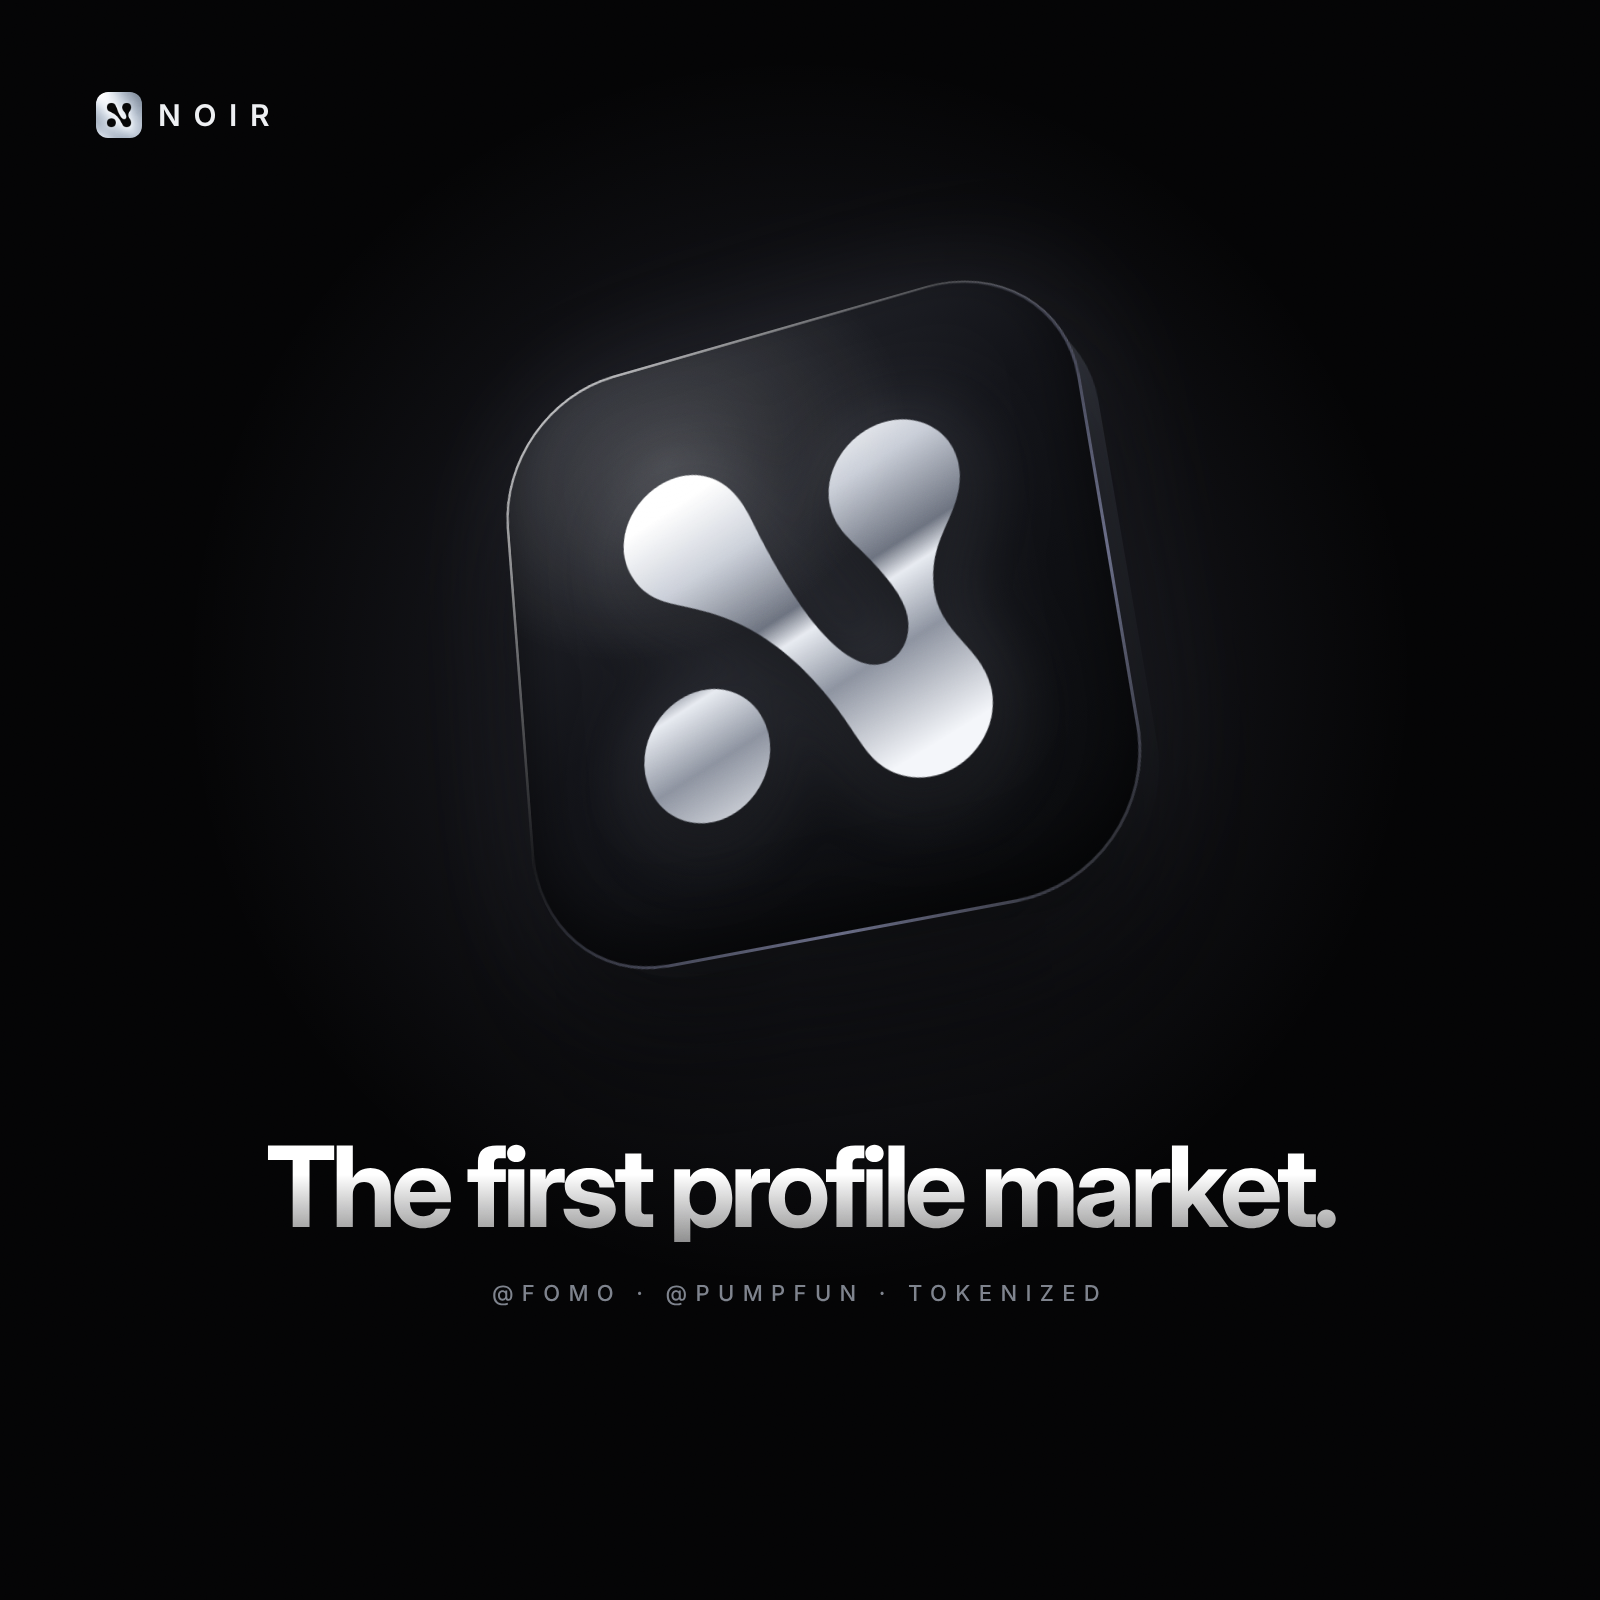
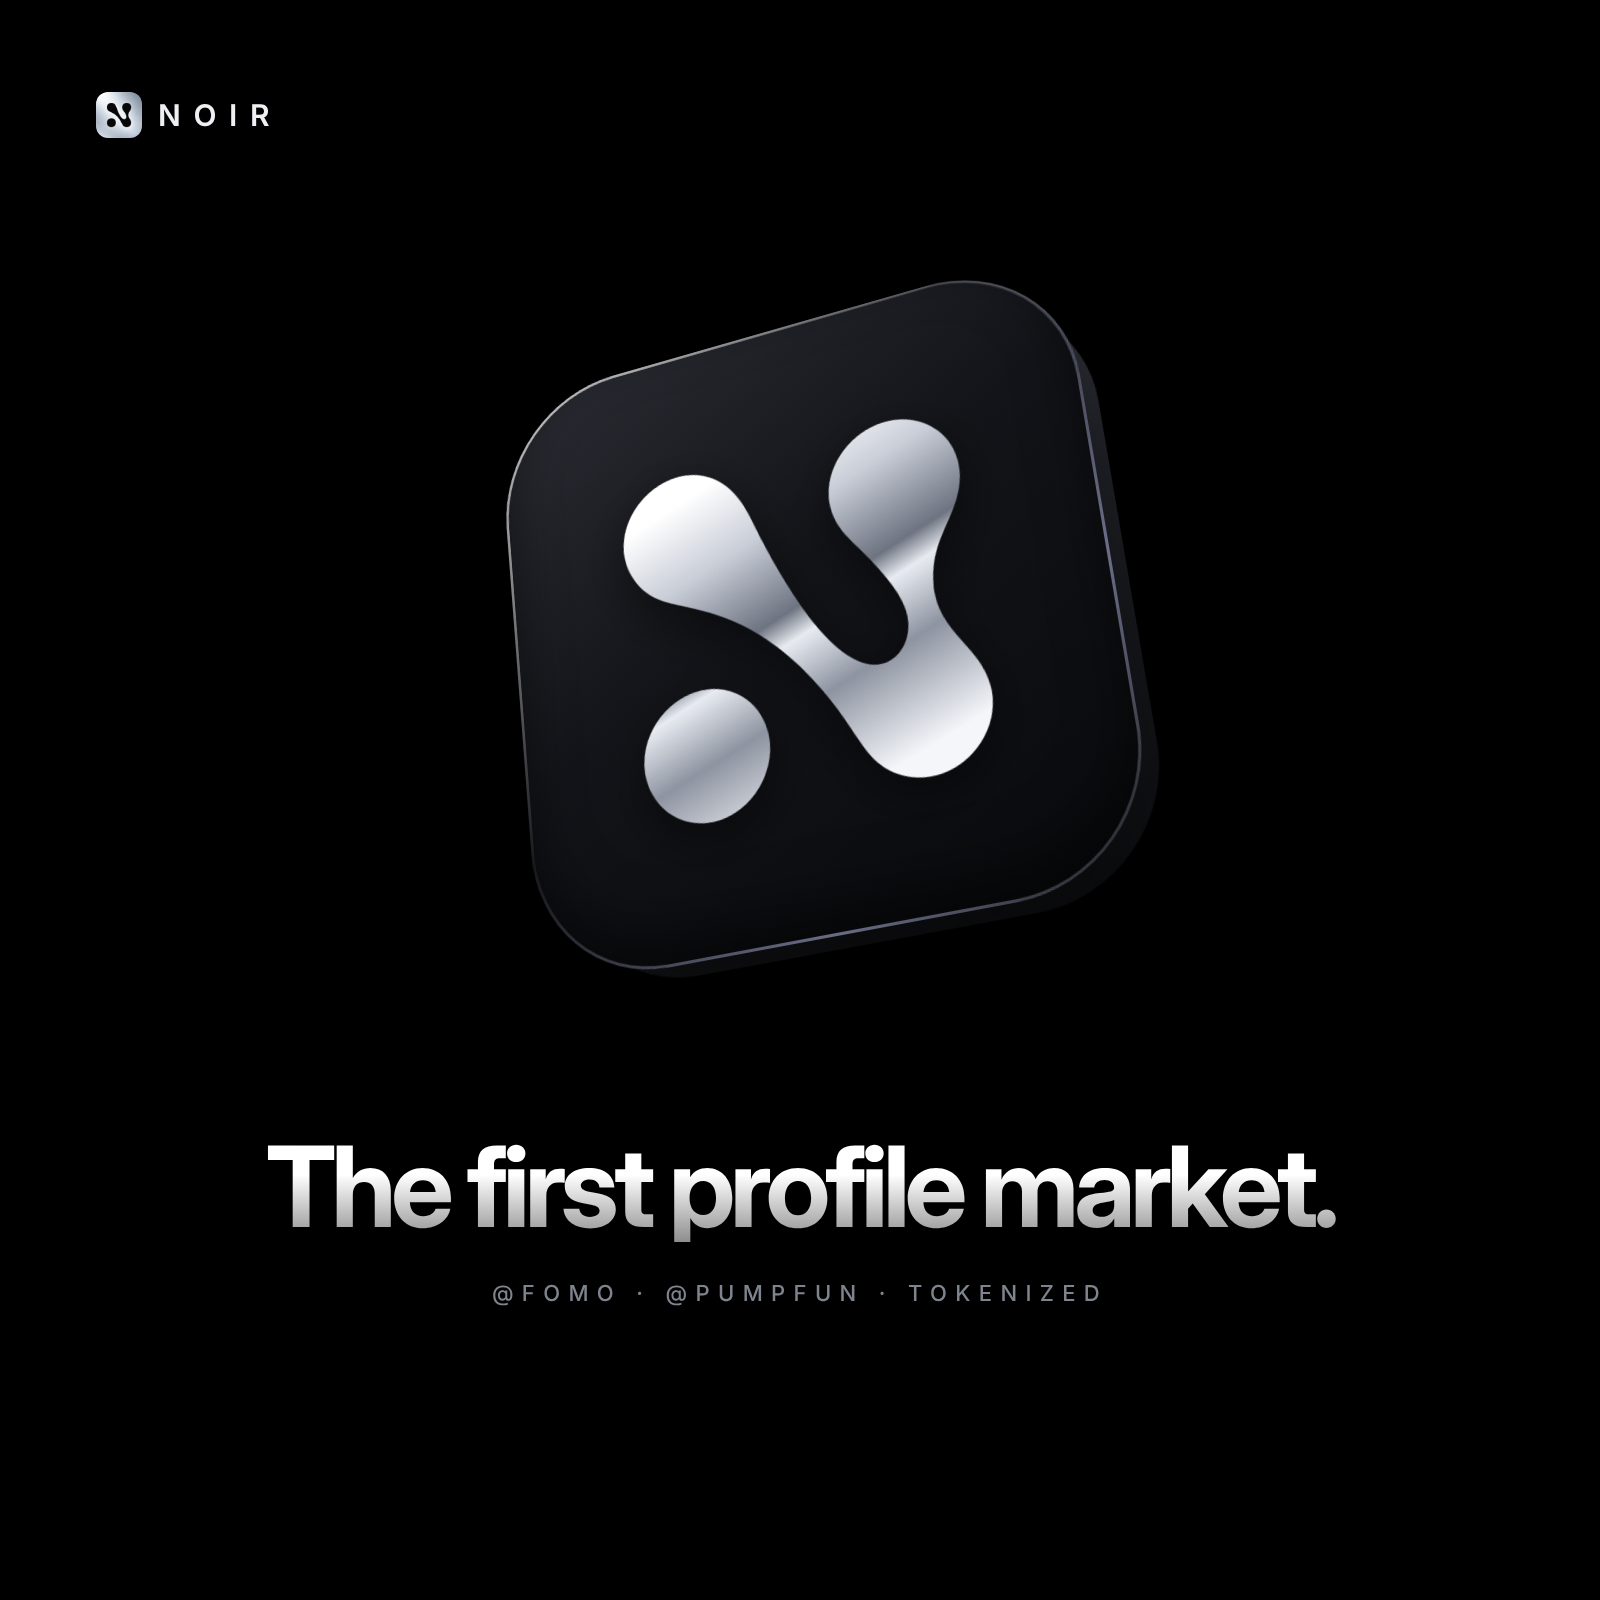
Remove glow from 'The first' post images
Claude-Session: https://claude.ai/code/session_01XuzzpsTNGuLB13z5AixuLb

diff --git a/design/noir/posts/first-source/first.html b/design/noir/posts/first-source/first.html
@@ -1,16 +1,15 @@
 <!doctype html><html><head><meta charset=utf-8><style>
 *{margin:0;box-sizing:border-box}body{background:#000;font-family:Inter,sans-serif}
-.c{position:relative;overflow:hidden;background:#040405}
+.c{position:relative;overflow:hidden;background:#000}
 .sq{width:1600px;height:1600px}.ls{width:1600px;height:900px}
 .wm{position:absolute;display:flex;align-items:center;gap:16px;font:600 30px Inter;letter-spacing:.42em;color:#eef0f3}
 .g{position:absolute;inset:0;opacity:.06;mix-blend-mode:overlay;pointer-events:none}
 .stage{position:absolute;perspective:2200px}
 .tile{position:absolute;inset:0;border-radius:22%;transform-style:preserve-3d;
  background:linear-gradient(150deg,#2a2c33 0%,#121318 45%,#08090b 100%);
- box-shadow:inset 0 2px 0 rgba(255,255,255,.18),inset 0 -30px 60px rgba(0,0,0,.6),0 80px 160px rgba(0,0,0,.7),0 0 140px rgba(190,200,235,.14)}
+ box-shadow:inset 0 2px 0 rgba(255,255,255,.18),inset 0 -30px 60px rgba(0,0,0,.6),0 80px 160px rgba(0,0,0,.7)}
 .tile:before{content:"";position:absolute;inset:0;border-radius:inherit;padding:3px;background:linear-gradient(135deg,rgba(255,255,255,.75),rgba(255,255,255,.05) 40%,rgba(199,205,255,.5) 75%,rgba(255,255,255,.1));-webkit-mask:linear-gradient(#000 0 0) content-box,linear-gradient(#000 0 0);-webkit-mask-composite:xor;mask-composite:exclude}
-.tile:after{content:"";position:absolute;inset:0;border-radius:inherit;background:radial-gradient(70% 55% at 30% 18%,rgba(255,255,255,.16),transparent 60%)}
-.tile img{position:absolute;left:21%;top:21%;width:58%;height:58%;filter:drop-shadow(0 18px 30px rgba(0,0,0,.55)) drop-shadow(0 0 40px rgba(205,212,235,.25))}
+.tile img{position:absolute;left:21%;top:21%;width:58%;height:58%;filter:drop-shadow(0 18px 30px rgba(0,0,0,.55))}
 .side{position:absolute;inset:0;border-radius:22%;background:linear-gradient(160deg,#3b3e48,#0c0d10);transform:translateZ(-70px)}
 .t{background:linear-gradient(180deg,#fff 40%,rgba(255,255,255,.55));-webkit-background-clip:text;color:transparent}
 .k{font:500 22px Inter;letter-spacing:.38em;color:#7d828c}
@@ -18,7 +17,6 @@
 
 <!-- A · square, logo only (like the reference) -->
 <div class="c sq" id=A>
- <div style="position:absolute;left:50%;top:50%;width:1500px;height:1500px;transform:translate(-50%,-48%);border-radius:50%;background:radial-gradient(circle,rgba(199,205,255,.16),transparent 58%)"></div>
  <div class=wm style="left:96px;top:92px"><img src="noir-logo-128.png" style="width:46px;height:46px;border-radius:12px">NOIR</div>
  <div class=stage style="left:410px;top:430px;width:780px;height:780px">
   <div style="position:absolute;inset:0;transform:rotateX(18deg) rotateY(-24deg) rotateZ(-8deg);transform-style:preserve-3d">
@@ -30,7 +28,6 @@
 
 <!-- B · square, logo + line -->
 <div class="c sq" id=B>
- <div style="position:absolute;left:50%;top:42%;width:1500px;height:1500px;transform:translate(-50%,-50%);border-radius:50%;background:radial-gradient(circle,rgba(199,205,255,.15),transparent 58%)"></div>
  <div class=wm style="left:96px;top:92px"><img src="noir-logo-128.png" style="width:46px;height:46px;border-radius:12px">NOIR</div>
  <div class=stage style="left:480px;top:300px;width:640px;height:640px">
   <div style="position:absolute;inset:0;transform:rotateX(16deg) rotateY(-22deg) rotateZ(-7deg);transform-style:preserve-3d">
@@ -46,7 +43,6 @@
 
 <!-- C · landscape 16:9 -->
 <div class="c ls" id=C>
- <div style="position:absolute;right:-100px;top:-300px;width:1200px;height:1200px;border-radius:50%;background:radial-gradient(circle,rgba(199,205,255,.15),transparent 58%)"></div>
  <div class=wm style="left:90px;top:80px;font-size:24px"><img src="noir-logo-128.png" style="width:38px;height:38px;border-radius:10px">NOIR</div>
  <div style="position:absolute;left:90px;top:330px">
   <div class=t style="font:700 96px/1.02 'Inter Display';letter-spacing:-.05em">The first<br>profile market.</div>
